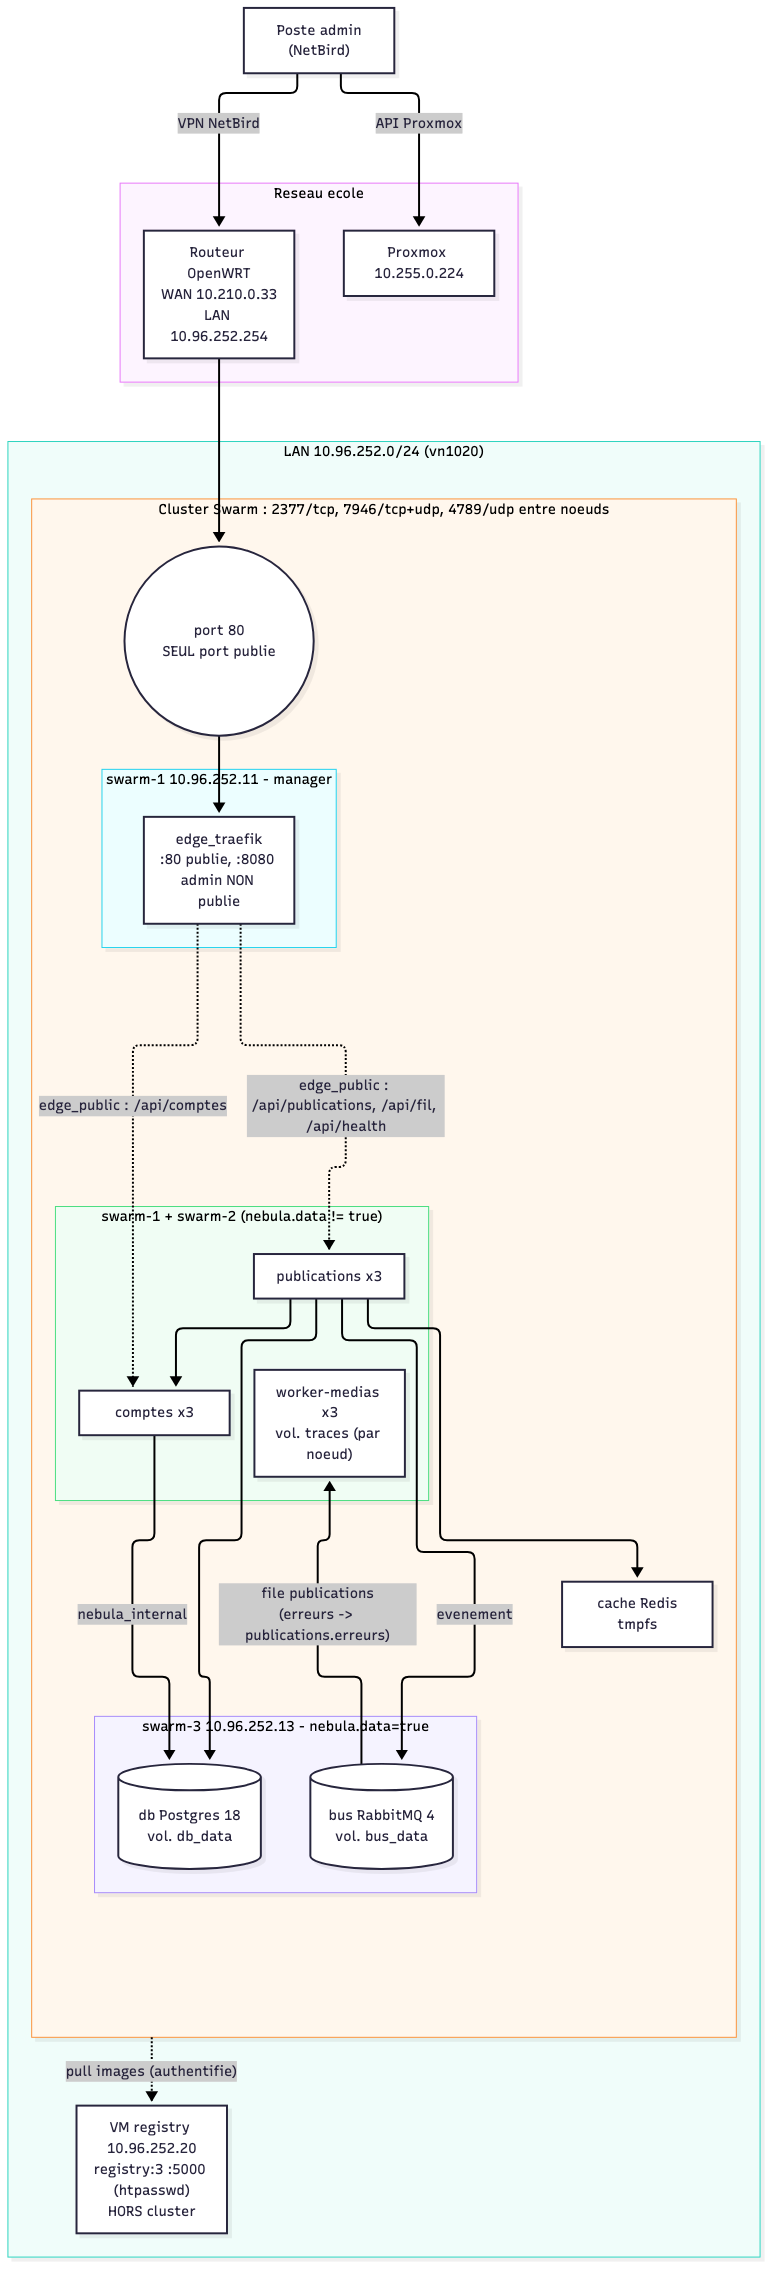
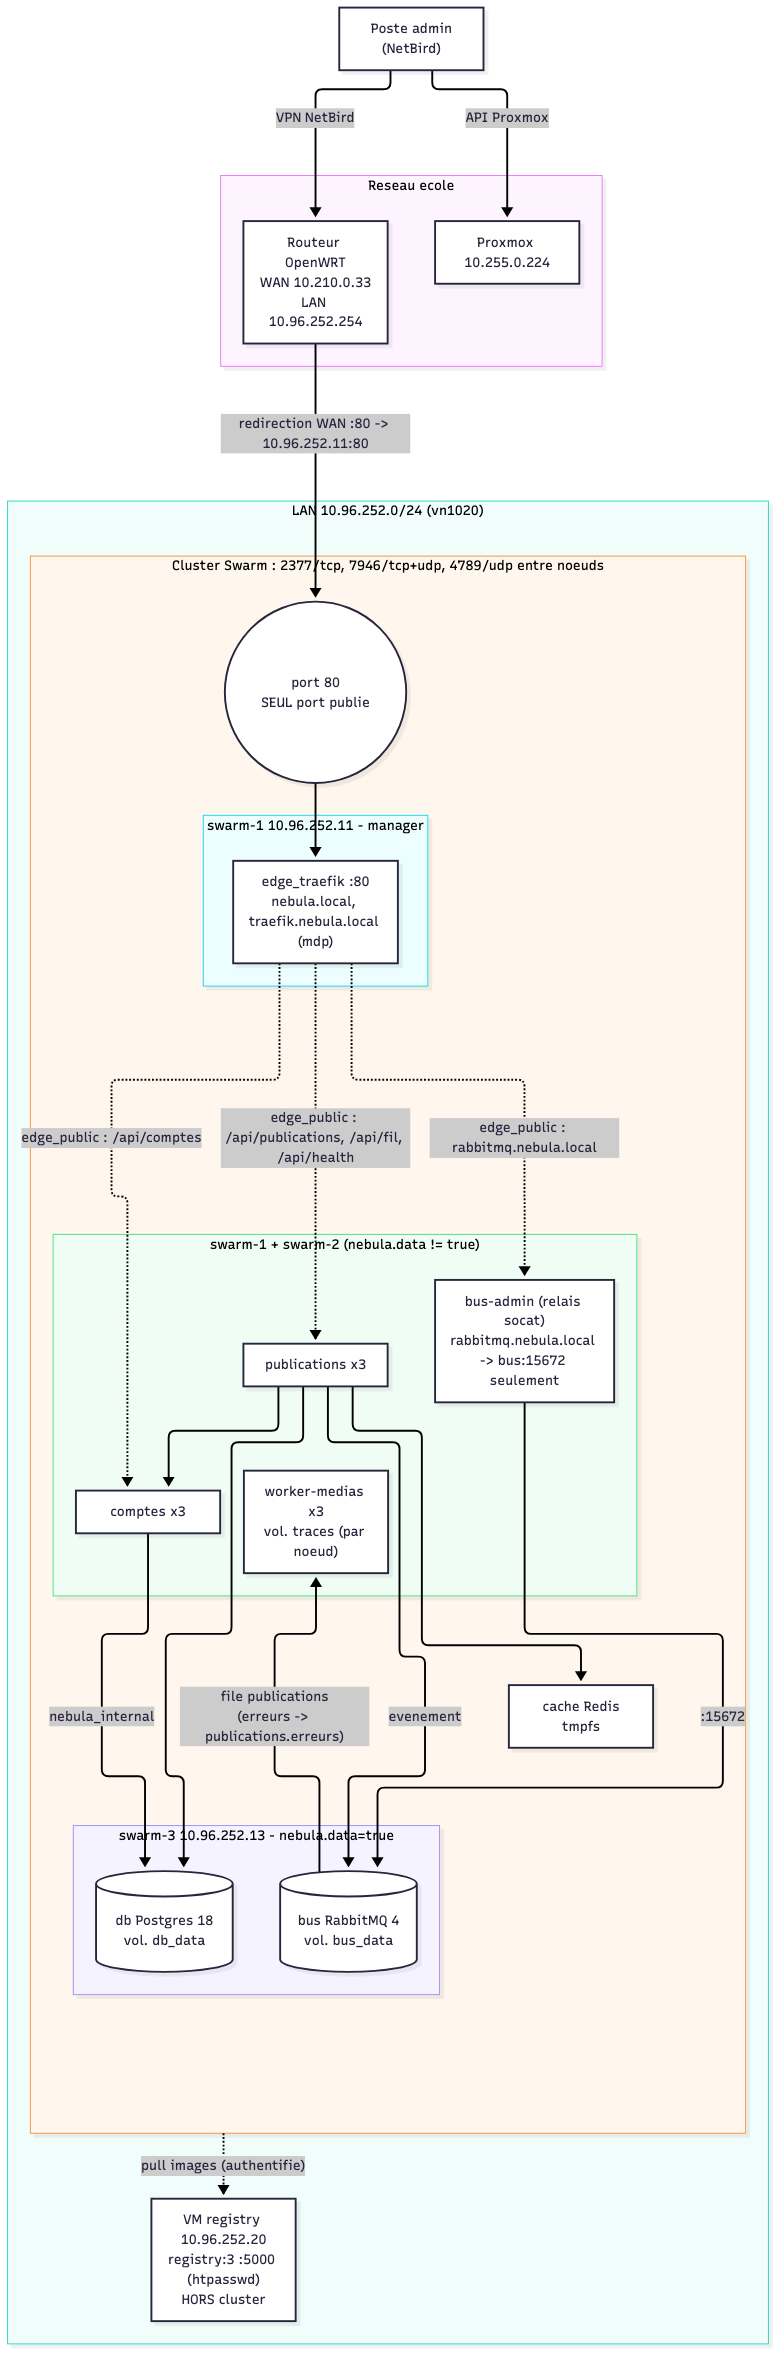
feat: sous-domaines traefik/rabbitmq via redirection du routeur, plus de tunnel SSH
- tableau de bord Traefik sur traefik.nebula.local (port 80, basic auth)
- relais bus-admin (socat, 15672 uniquement) pour rabbitmq.nebula.local :
  le bus reste uniquement sur le reseau interne
- bootstrap : redirection WAN :80 -> manager sur le routeur OpenWRT
- scripts/admin-tunnel.sh supprime

diff --git a/docs/exploitation.md b/docs/exploitation.md
@@ -5,7 +5,9 @@ Tout se lance depuis le poste admin, a la racine du depot, NetBird connecte.
 Prerequis (une fois) :
 - hotes SSH `lab-router`, `swarm-1..3`, `registry` dans `~/.ssh/config` (rebond par le routeur)
 - identifiants hors depot : `~/.config/nebula/admin-password`, `~/.config/nebula/registry-password`
-  (crees par `bootstrap.sh`)
+  (crees par `bootstrap.sh`), `~/.config/nebula/bus-password` (login RabbitMQ)
+- `/etc/hosts` : `10.210.0.33 nebula.local traefik.nebula.local rabbitmq.nebula.local`
+  (le routeur redirige son port 80 vers le cluster)
 - pour les scripts Proxmox : `export PVE_TOKEN='PVEAPIToken=...'` (jamais commite)
 
 ## Situations
@@ -22,11 +24,12 @@ Prerequis (une fois) :
 | Arret / redemarrage complet | `./cluster/power.py stop` puis `./cluster/power.py start` | arret workers puis manager ; au rallumage le cluster se reforme seul (~3 min) |
 | Donnees perdues ou corrompues | `./scripts/backup-db.sh` (avant) puis `./scripts/restore-db.sh backups/<fichier>.dump` | dump rapatrie sur le poste admin ; restauration en une transaction |
 | Messages en erreur | `ssh swarm-3 'docker exec $(docker ps -q -f name=nebula_bus) rabbitmqctl list_queues name messages'` | messages rejetes par le worker dans `publications.erreurs` |
-| Tableau de bord Traefik | `./scripts/admin-tunnel.sh` puis http://localhost:8088/dashboard/ | utilisateur `admin`, mot de passe `~/.config/nebula/admin-password` |
+| Tableau de bord Traefik | http://traefik.nebula.local/dashboard/ | utilisateur `admin`, mot de passe `~/.config/nebula/admin-password` |
+| Interface RabbitMQ (files, messages en erreur) | http://rabbitmq.nebula.local | utilisateur `nebula`, mot de passe `~/.config/nebula/bus-password` |
 | Montee en charge | `ssh swarm-1 docker service scale nebula_publications=6` | repartition visible : `curl http://nebula.local/api/health` (champ host) |
 | Ajouter un service | copier `swarm/stack.exemple-service.yml`, puis `docker stack deploy -c ... <nom>` sur swarm-1 | aucun autre fichier modifie |
 | Etat en une commande | `ssh swarm-1 docker stack ps nebula -f desired-state=running` | service, image et version, noeud, etat |
-| Verifier la chaine | depuis une machine du LAN : `./scripts/smoke.sh nebula.local` | |
+| Verifier la chaine | `./scripts/smoke.sh nebula.local` | |
 
 ## Scenarios verifies (5 octobre 2026)
 

diff --git a/docs/schema-reseau.md b/docs/schema-reseau.md
@@ -22,12 +22,13 @@ flowchart TB
       ingress(("port 80<br/>SEUL port publie"))
 
       subgraph s1["swarm-1 10.96.252.11 - manager"]
-        traefik["edge_traefik<br/>:80 publie, :8080 admin NON publie"]
+        traefik["edge_traefik :80<br/>nebula.local, traefik.nebula.local (mdp)"]
       end
       subgraph s12["swarm-1 + swarm-2 (nebula.data != true)"]
         comptes["comptes x3"]
         publications["publications x3"]
         worker["worker-medias x3<br/>vol. traces (par noeud)"]
+        busadmin["bus-admin (relais socat)<br/>rabbitmq.nebula.local -> bus:15672 seulement"]
       end
       subgraph s3["swarm-3 10.96.252.13 - nebula.data=true"]
         db[("db Postgres 18<br/>vol. db_data")]
@@ -37,12 +38,14 @@ flowchart TB
     end
   end
 
-  router --> ingress
+  router -- "redirection WAN :80 -> 10.96.252.11:80" --> ingress
   ingress --> traefik
 
   %% pointilles = reseau edge_public ; traits pleins = reseau nebula_internal
   traefik -. "edge_public : /api/comptes" .-> comptes
   traefik -. "edge_public : /api/publications, /api/fil, /api/health" .-> publications
+  traefik -. "edge_public : rabbitmq.nebula.local" .-> busadmin
+  busadmin -- ":15672" --> bus
 
   comptes -- "nebula_internal" --> db
   publications --> comptes
@@ -56,7 +59,8 @@ flowchart TB
 
 | Reseau | Membres | Joignable depuis |
 |---|---|---|
-| `edge_public` (overlay) | traefik, comptes, publications | Traefik uniquement |
+| `edge_public` (overlay) | traefik, comptes, publications, bus-admin | Traefik uniquement |
 | `nebula_internal` (overlay, `internal: true`) | comptes, publications, worker, db, bus, cache | services internes ; aucune sortie Internet |
 | Port publie | 80 (Traefik, routing mesh) | tout le LAN, sur les 3 noeuds |
-| Admin Traefik | :8080 dans le conteneur, non publie | tunnel SSH vers swarm-1 + mot de passe |
+| Admin Traefik | traefik.nebula.local (port 80) | mot de passe (basic auth) |
+| Admin RabbitMQ | rabbitmq.nebula.local via le relais bus-admin (15672 uniquement) | login RabbitMQ ; le bus reste hors de edge_public |
